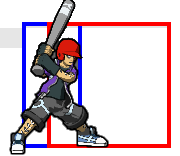
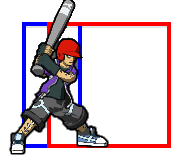
adding extra characters

Changed region(s): [[0.0, 0.1795, 0.1389, 0.3077]]

diff --git a/main.js b/main.js
@@ -70,7 +70,7 @@ var stageJSON = {
 var characterJSON = {
   "Toxic": {
     "color": "#ff3913",
-    "image": "assets/characters/RaptorSwing.png",
+    "image": "assets/characters/ToxicSwing.png",
     "strokeColor": "#75ff13",
     "angles": [
       {
@@ -367,7 +367,7 @@ var characterJSON = {
   },
   "Sonata": {
     "color": "#3349cb",
-    "image": "assets/characters/RaptorSwing.png",
+    "image": "assets/characters/SonataSwing.png",
     "strokeColor": "darkviolet",
     "angles": [
       {
@@ -674,8 +674,8 @@ function draw() {
 
     // Draw character last so it's on top
     // Create a raster item using the image tag 
-    debugger;
-    r = new Raster(char.image)
+    //debugger;
+    var r = new Raster(char.image)
     r.position.x = char.x;
     r.position.y = char.y
     if(char.facing == "left"){
@@ -715,7 +715,7 @@ function myDown(e) {
   // test each shape to see if mouse is inside
   dragok = false;
   for(var i = 0; i < loadedChars.length; i++){
-    debugger;
+    //debugger;
     var s = loadedChars[i];
     // decide if the shape is a rect or circle
     if(s.width){
